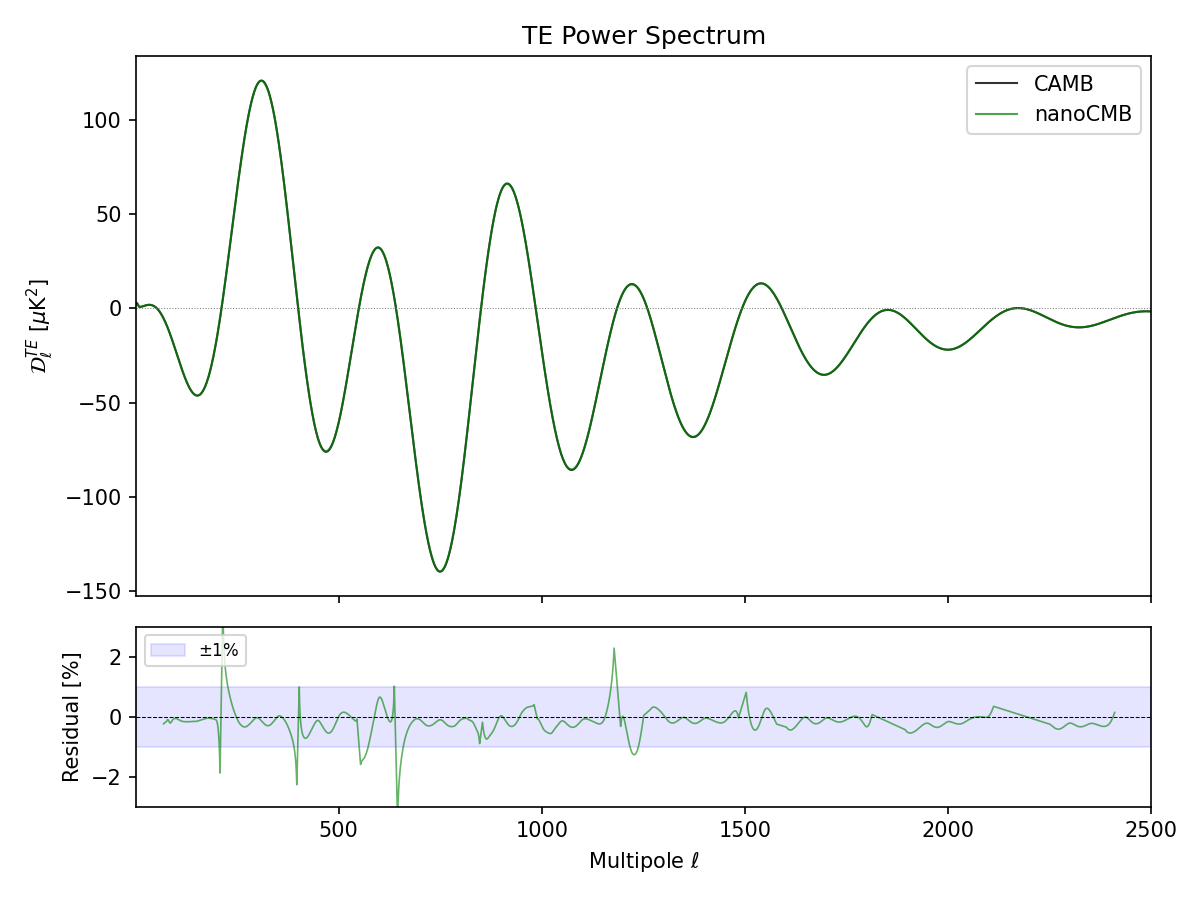
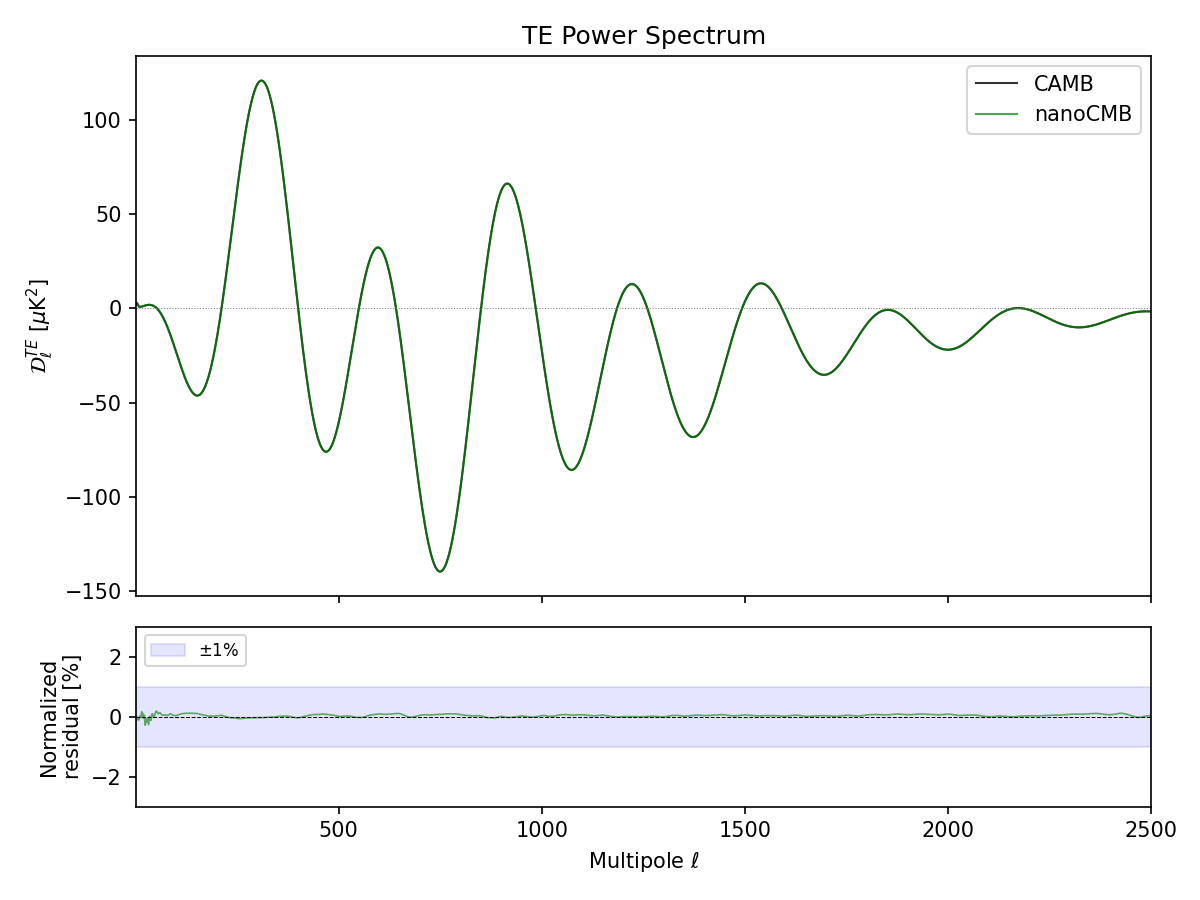
Refresh README spectra from the updated solver
Regenerate the TT, EE, and TE assets against CAMB. Include all positive TT and EE reference samples, and normalize TE residuals by the covariance scale used in the README.

Add and document --update-assets for future regeneration. Verified with a fresh solver run, the complete validation script, and visual inspection of all three figures.

Changed region(s): [[0.1233, 0.7467, 0.925, 0.8711], [0.0308, 0.7156, 0.0617, 0.8711]]

diff --git a/scripts/validate.py b/scripts/validate.py
@@ -1,8 +1,15 @@
 """Compare nanoCMB output against CAMB and generate validation plots."""
 
+import argparse
 import sys
 from pathlib import Path
-sys.path.insert(0, str(Path(__file__).resolve().parent.parent))
+ROOT = Path(__file__).resolve().parent.parent
+sys.path.insert(0, str(ROOT))
+
+parser = argparse.ArgumentParser(description=__doc__)
+parser.add_argument('--update-assets', action='store_true',
+                    help='Also save TT, EE, and TE figures to the README assets directory.')
+args = parser.parse_args()
 
 import numpy as np
 import camb
@@ -87,6 +94,14 @@ try:
 
     os.makedirs('plots', exist_ok=True)
 
+    def save_spectrum(fig, name):
+        paths = [Path('plots') / f'{name}_spectrum.png']
+        if args.update_assets:
+            paths.append(ROOT / 'assets' / f'{name}_spectrum.png')
+        for path in paths:
+            fig.savefig(path, dpi=150)
+            print(f"Saved {path}")
+
     # Interpolate CAMB to nanoCMB ℓ values
     TT_camb_interp = np.interp(ells_nano, ells_camb, DlTT_camb)
     EE_camb_interp = np.interp(ells_nano, ells_camb, DlEE_camb)
@@ -101,7 +116,7 @@ try:
     ax_top.set_title('TT Power Spectrum')
     ax_top.legend()
     ax_top.set_xlim(2, 2500)
-    mask_pos = TT_camb_interp > 10
+    mask_pos = TT_camb_interp > 0
     residual = DlTT_nano[mask_pos] / TT_camb_interp[mask_pos] - 1
     ax_bot.plot(ells_nano[mask_pos], residual * 100, 'r-', alpha=0.6, lw=0.8)
     ax_bot.axhline(0, color='k', ls='--', lw=0.5)
@@ -111,9 +126,8 @@ try:
     ax_bot.set_ylim(-3, 3)
     ax_bot.legend(loc='upper left', fontsize=8)
     fig.tight_layout()
-    fig.savefig('plots/tt_spectrum.png', dpi=150)
+    save_spectrum(fig, 'tt')
     plt.close(fig)
-    print("Saved plots/tt_spectrum.png")
 
     # --- EE spectrum + residual ---
     fig, (ax_top, ax_bot) = plt.subplots(2, 1, figsize=(8, 6),
@@ -124,7 +138,7 @@ try:
     ax_top.set_title('EE Power Spectrum')
     ax_top.legend()
     ax_top.set_xlim(2, 2500)
-    mask_pos = EE_camb_interp > 0.1
+    mask_pos = EE_camb_interp > 0
     residual = DlEE_nano[mask_pos] / EE_camb_interp[mask_pos] - 1
     ax_bot.plot(ells_nano[mask_pos], residual * 100, 'b-', alpha=0.6, lw=0.8)
     ax_bot.axhline(0, color='k', ls='--', lw=0.5)
@@ -134,9 +148,8 @@ try:
     ax_bot.set_ylim(-3, 3)
     ax_bot.legend(loc='upper left', fontsize=8)
     fig.tight_layout()
-    fig.savefig('plots/ee_spectrum.png', dpi=150)
+    save_spectrum(fig, 'ee')
     plt.close(fig)
-    print("Saved plots/ee_spectrum.png")
 
     # --- TE spectrum + residual ---
     fig, (ax_top, ax_bot) = plt.subplots(2, 1, figsize=(8, 6),
@@ -148,19 +161,20 @@ try:
     ax_top.set_title('TE Power Spectrum')
     ax_top.legend()
     ax_top.set_xlim(2, 2500)
-    mask_pos = np.abs(TE_camb_interp) > 5
-    residual = DlTE_nano[mask_pos] / TE_camb_interp[mask_pos] - 1
+    # Match the README metric and retain samples at TE zero crossings.
+    covariance_scale = np.sqrt(TT_camb_interp * EE_camb_interp)
+    mask_pos = covariance_scale > 0
+    residual = (DlTE_nano[mask_pos] - TE_camb_interp[mask_pos]) / covariance_scale[mask_pos]
     ax_bot.plot(ells_nano[mask_pos], residual * 100, 'g-', alpha=0.6, lw=0.8)
     ax_bot.axhline(0, color='k', ls='--', lw=0.5)
     ax_bot.axhspan(-1, 1, alpha=0.1, color='blue', label=r'$\pm$1%')
     ax_bot.set_xlabel(r'Multipole $\ell$')
-    ax_bot.set_ylabel('Residual [%]')
+    ax_bot.set_ylabel('Normalized\nresidual [%]')
     ax_bot.set_ylim(-3, 3)
     ax_bot.legend(loc='upper left', fontsize=8)
     fig.tight_layout()
-    fig.savefig('plots/te_spectrum.png', dpi=150)
+    save_spectrum(fig, 'te')
     plt.close(fig)
-    print("Saved plots/te_spectrum.png")
 
     # --- Background checks ---
     from nanocmb import compute_background, hubble, conformal_time, compute_thermodynamics, c_km_s, params

diff --git a/README.md b/README.md
@@ -31,6 +31,8 @@ Contributions welcome — whether it's improving speed, accuracy, conciseness, o
 
 ![TE Power Spectrum](assets/te_spectrum.png)
 
+TE residuals use the covariance normalization described in [Accuracy](#accuracy).
+
 ## Quick start
 
 ```bash
@@ -57,6 +59,13 @@ python scripts/validate.py
 ```
 
 This produces comparison plots in `plots/` with residual panels.
+
+To regenerate the tracked spectrum figures embedded in this README:
+
+```bash
+python nanocmb.py
+python scripts/validate.py --update-assets
+```
 
 Run the numerical regression tests with:
 
